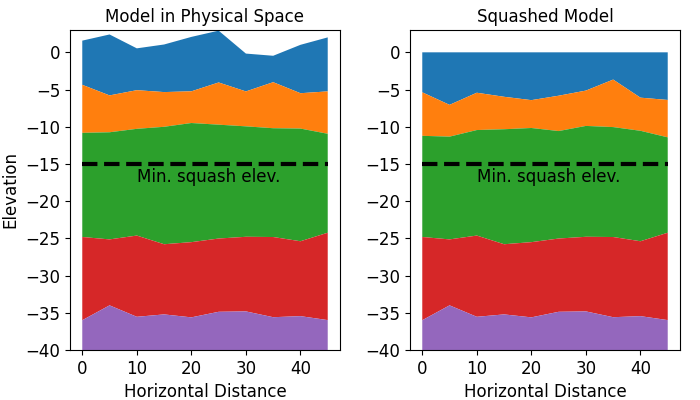
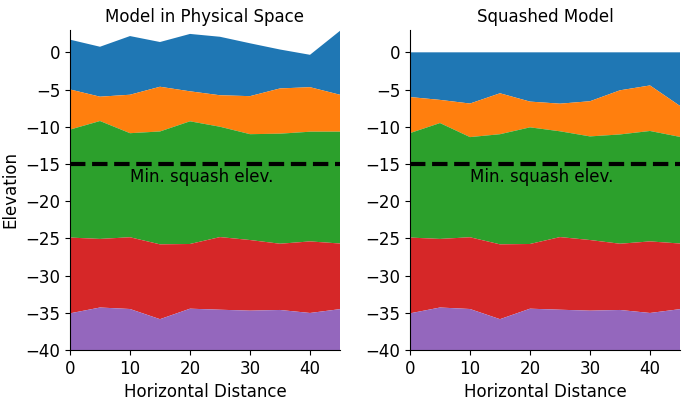
DOCS: Small tweak to squashing figure in documentation.

diff --git a/docs/user/features/figs/squashing.py b/docs/user/features/figs/squashing.py
@@ -50,8 +50,10 @@ def plotModel(ax, x, y, title):
     ax.text(10, squashMin-0.5, "Min. squash elev.", va="top")
     ax.set_xlabel("Horizontal Distance")
     ax.set_ylabel("Elevation")
+    ax.set_xlim(min(x), max(x))
     ax.set_ylim(minModel, maxTopo)
     ax.set_title(title)
+    ax.spines[["top", "right"]].set_visible(False)
 
 
 yModel = generateModel()
